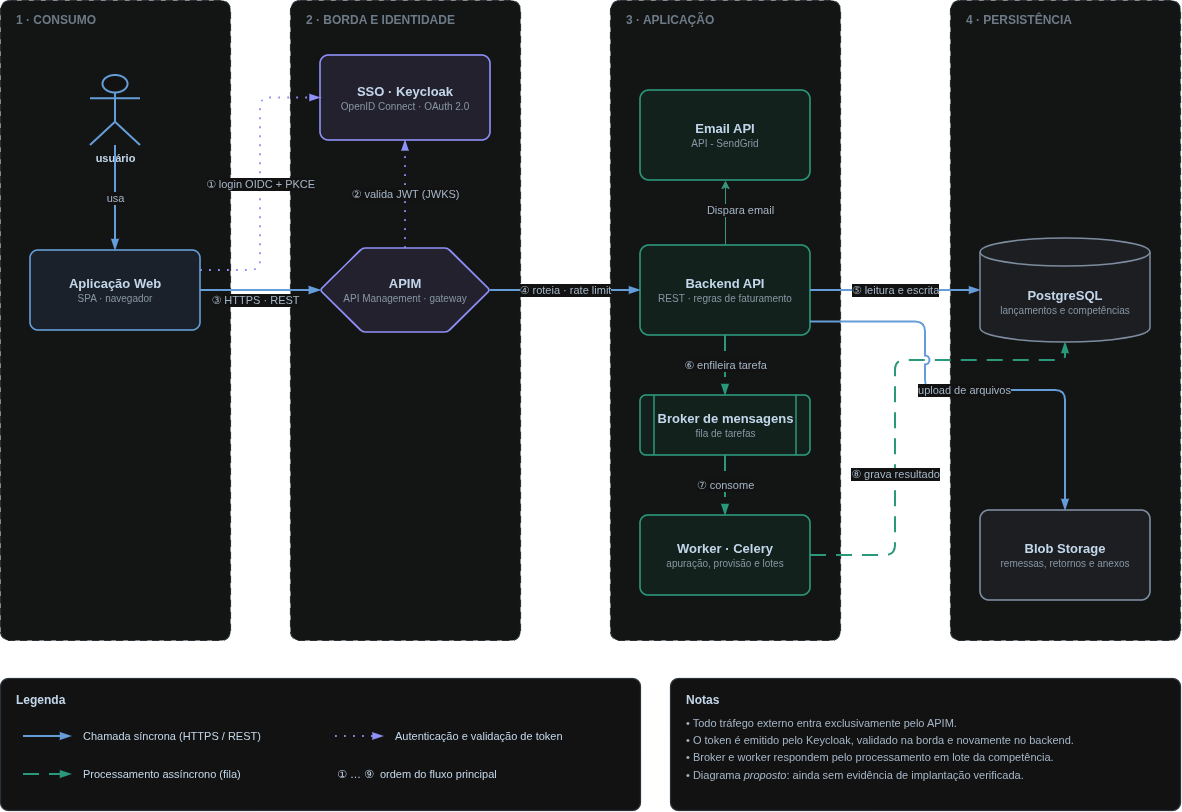
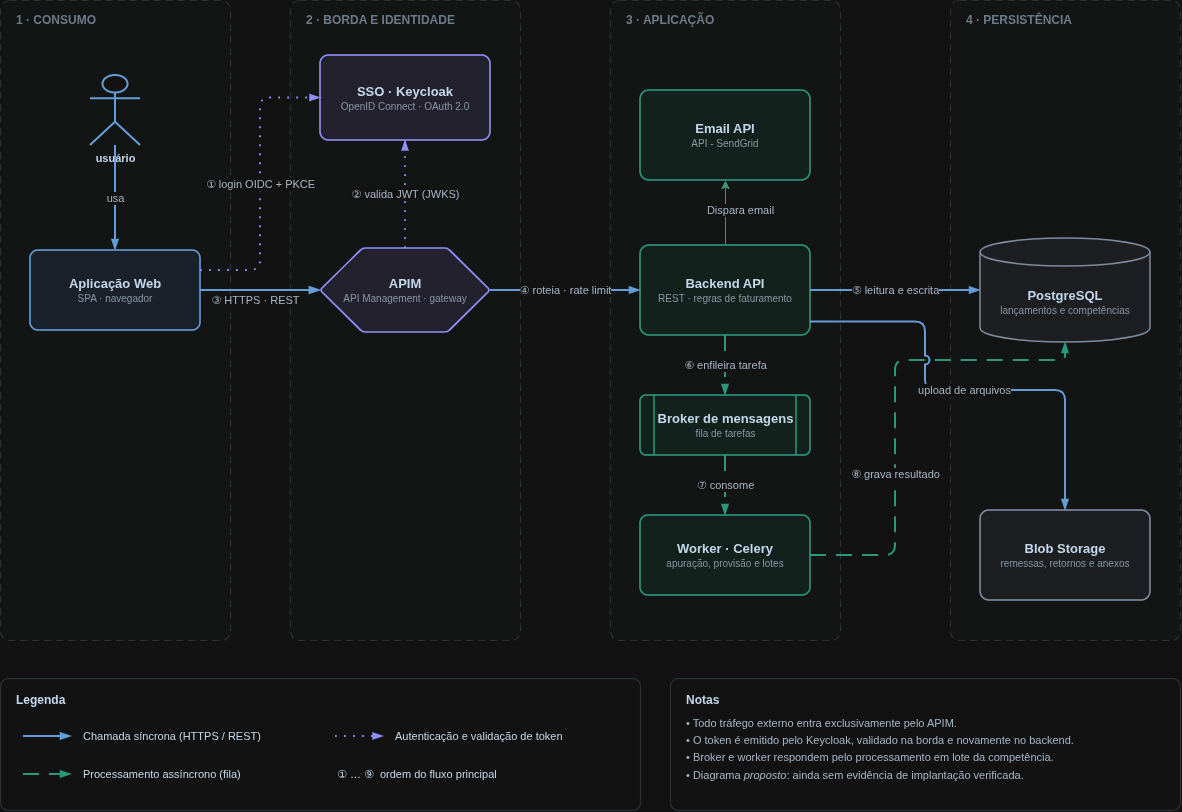
Adicionando arquivos dos slides de apresentação

Changed region(s): [[0.0, 0.0, 1.0, 1.0], [0.9746, 0.9852, 1.0, 1.0], [0.0, 0.9852, 0.0305, 1.0]]

diff --git a/slides/main.tex b/slides/main.tex
@@ -1,0 +1,124 @@
+\documentclass{beamer}
+\usepackage[T1]{fontenc}
+\usepackage[brazil]{babel}
+\usepackage[utf8]{inputenc}
+\usepackage[document]{ragged2e}
+\usetheme{Madrid}
+\usecolortheme{default}
+\definecolor{UBCblue}{rgb}{0.04706, 0.13725, 0.26667}
+\definecolor{AccentGreen}{rgb}{0.11, 0.47, 0.30}
+\definecolor{AccentRed}{rgb}{0.70, 0.15, 0.15}
+\definecolor{LightGray}{rgb}{0.93, 0.93, 0.95}
+\usepackage{graphicx}
+% Os arquivos ficam nas pastas do artigo e dos diagramas; assim não duplicamos figuras.
+\graphicspath{{.}{figs/}{../artigo/figuras/}{../artigo/figuras/zap/}{../diagramas/}}
+\usepackage{listings}
+\usepackage{subcaption}
+\usecolortheme[named=UBCblue]{structure}
+\usepackage{caption}
+\usepackage{xcolor}
+\usepackage{booktabs}
+\usepackage{multirow}
+\usepackage{array}
+\usepackage{colortbl}
+\usepackage{amsmath}
+\usepackage{float}
+\usepackage{tikz}
+\usetikzlibrary{arrows.meta, positioning}
+
+\setbeamertemplate{itemize items}[circle]
+\setbeamertemplate{blocks}[rounded][shadow=true]
+\setbeamertemplate{navigation symbols}{}
+
+\makeatletter
+\setbeamertemplate{footline}{%
+  \leavevmode%
+  \hbox{%
+    \begin{beamercolorbox}[wd=.25\paperwidth,ht=2.25ex,dp=1ex,center]{author in head/foot}%
+      \usebeamerfont{author in head/foot}\insertshortauthor
+    \end{beamercolorbox}%
+    \begin{beamercolorbox}[wd=.60\paperwidth,ht=2.25ex,dp=1ex,center]{title in head/foot}%
+      \usebeamerfont{title in head/foot}\insertshortinstitute
+    \end{beamercolorbox}%
+  }%
+  \begin{beamercolorbox}[wd=.15\paperwidth,ht=2.25ex,dp=1ex,right]{date in head/foot}%
+    \usebeamerfont{date in head/foot}%
+    \usebeamertemplate{page number in head/foot}%
+    \hspace*{2ex}
+  \end{beamercolorbox}
+  \vskip0pt%
+}
+\makeatother
+
+\author[Marlon B. Ramos]{Marlon Brendo Ramos}
+\title[Engenharia de Software Seguro]{Engenharia de Software Seguro em um Sistema de
+Faturamento de Redes Farmacêuticas, da
+Modelagem de Ameaças ao DevSecOps}
+\institute[UFU]{Universidade Federal de Uberlândia - UFU}
+\date{}
+
+\begin{document}
+\frame{\titlepage}
+
+
+\begin{frame}{Contexto e Motivação}
+    \begin{itemize}
+        \item \textbf{31\%} das violações começam pela exploração de vulnerabilidades de software.
+(Fonte: \href{https://www.verizon.com/business/resources/reports/dbir/}{Verizon, 2026 DBIR}).
+        \item No setor farmacêutico, os intermediários utilizam sistemas que registram informações, realizam cálculos e fazem as cobranças.
+        \item \textbf{Change Healthcare (2024)}: acesso remoto \textbf{sem MFA} interrompeu pedidos e pagamentos em todo o território americano.
+        \item Muitas falhas graves são de \textbf{projeto}, não de implementação. Um projeto inseguro não é corrigido por código perfeito.
+    \end{itemize}
+
+    \vspace{0.3cm}
+    \begin{alertblock}{Ideia central}
+        \centering
+        Em vez de corrigir o que aparecer, perguntar \textbf{antes} como o sistema pode ser atacado.
+    \end{alertblock}
+\end{frame}
+
+\begin{frame}{Sistema Estudado: O Que é o Software}
+    \begin{block}{Em uma frase}
+        \centering
+        Sistema \textbf{interno} que calcula, aprova e envia ao ERP o \textbf{valor a cobrar} de cada cliente da rede credenciada, a cada mês.
+    \end{block}
+
+    \vspace{0.2cm}
+    \vspace{0.1cm}
+    \textbf{Como funciona}
+    \vspace{0.1cm}
+    \begin{enumerate}
+        \item O \textbf{analista} registra o lançamento do cliente.
+        \item O \textbf{servidor calcula} o valor pela regra de serviço contratada.
+        \item O \textbf{gestor aprova} ou reprova.
+        \item O valor aprovado vai ao \textbf{cliente} (e-mail) e ao \textbf{ERP} (planilha de carga), onde vira registro contábil.
+    \end{enumerate}
+    O \textbf{administrador} pode executar todas as etapas, inclusive aprovar.
+
+    \vspace{0.2cm}
+    \begin{alertblock}{Por que é alvo}
+        \centering
+        O sistema não guarda dados de pacientes. O que vale proteger é o \textbf{valor faturado}: se adulterado, vira cobrança indevida e registro contábil errado.
+    \end{alertblock}
+\end{frame}
+
+\begin{frame}{Fluxo Geral}
+   \begin{figure}[h]
+        \centering
+        \includegraphics[width=0.85\textwidth]{figs/diagrama-fluxo-geral.png}
+        \caption{Diagrama do fluxo geral}
+        \label{fig:minha-imagem}
+    \end{figure}
+\end{frame}
+
+
+
+\begin{frame}[plain]
+    \centering
+
+    \vspace{1.2cm}
+
+    {\small \textbf{Obrigado!}}
+
+\end{frame}
+\end{document}
